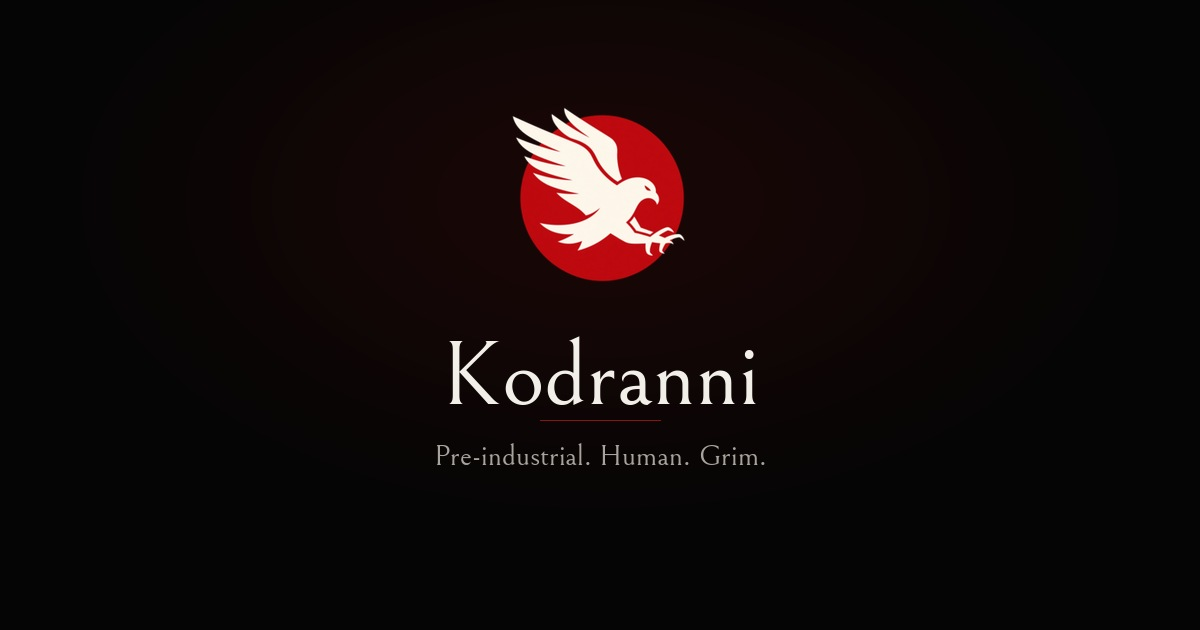
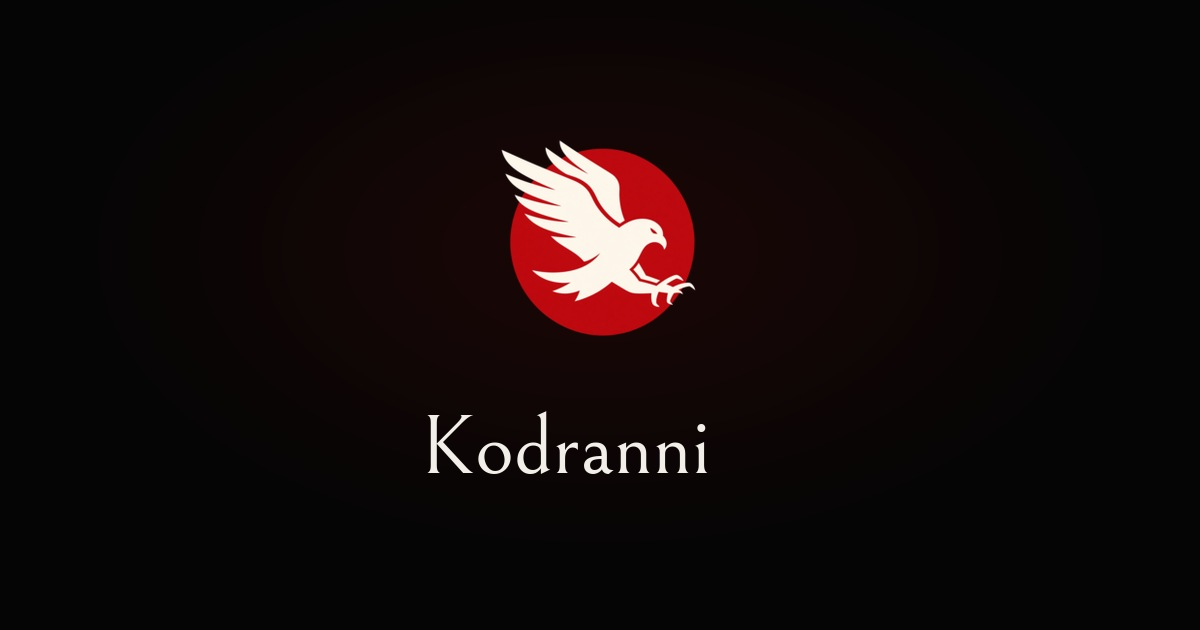
Close the Guidebook finish pass: tests, folio portal, OG, reading.
Build now runs domain tests and a small integrity check (no printed
{#ids}, no plan paths, Intro Echoes-before-Harm). Portal actions match
Guidebook prev/next plates. The link thumbnail is falcon plus wordmark
only. Bellefair reading: tighter tracking, brighter body, balanced
headings, roomier tables. Wording only where the high bar held: quote
shape, drop “online”, empty Hierarchy Tiers heading, plate order, and
the Exertion Practice exception. Campaign Setup is accepted; no
second-tier Glossary.

Changed region(s): [[0.3392, 0.181, 0.6475, 0.754]]

diff --git a/public-root/index.html b/public-root/index.html
@@ -14,11 +14,11 @@
 	<meta property="og:image:type" content="image/jpeg" />
 	<meta property="og:image:width" content="1200" />
 	<meta property="og:image:height" content="630" />
-	<meta property="og:image:alt" content="Kodranni — the white falcon on a blood disc. Pre-industrial. Human. Grim." />
+	<meta property="og:image:alt" content="The Kodranni falcon on a blood disc." />
 	<meta property="og:site_name" content="Kodranni" />
 	<meta name="twitter:card" content="summary_large_image" />
 	<meta name="twitter:image" content="https://tamasszentandrasi.github.io/Kodranni/Guidebook/og.jpg" />
-	<meta name="twitter:image:alt" content="Kodranni — the white falcon on a blood disc. Pre-industrial. Human. Grim." />
+	<meta name="twitter:image:alt" content="The Kodranni falcon on a blood disc." />
 	<link rel="icon" href="./Guidebook/favicon.ico" sizes="any" />
 	<link rel="icon" type="image/png" sizes="32x32" href="./Guidebook/favicon-32x32.png" />
 	<link rel="apple-touch-icon" sizes="180x180" href="./Guidebook/apple-touch-icon.png" />
@@ -45,7 +45,7 @@
 			-webkit-font-smoothing: antialiased;
 			text-rendering: geometricPrecision;
 			scrollbar-width: thin;
-			scrollbar-color: #4a0c0c #050505;
+			scrollbar-color: #5c5550 #080606;
 		}
 		body {
 			min-height: 100vh;
@@ -151,43 +151,73 @@
 			text-transform: uppercase;
 		}
 		.constraints li { margin: 0; }
-		.cards {
+		.folios {
 			display: grid;
 			grid-template-columns: 1fr;
-			gap: 0.75rem;
+			gap: 1.1rem;
 		}
 		@media (min-width: 36rem) {
-			.cards { grid-template-columns: 1fr 1fr; }
+			.folios { grid-template-columns: 1fr 1fr; }
 		}
-		a.card {
+		a.folio {
+			--tick: #6a6560;
 			display: block;
-			padding: 1.05rem 1.1rem;
-			border: 1px solid color-mix(in srgb, #8a1515 40%, #3a3030);
-			border-radius: 2px;
-			background: rgba(8, 6, 6, 0.72);
-			color: inherit;
+			padding: 0.95rem 0.9rem;
+			border: 1px solid #2e2a28;
+			border-radius: 0;
+			background:
+				linear-gradient(var(--tick), var(--tick)) 0 0 / 0.7rem 1px no-repeat,
+				linear-gradient(var(--tick), var(--tick)) 0 0 / 1px 0.7rem no-repeat,
+				linear-gradient(var(--tick), var(--tick)) 100% 0 / 0.7rem 1px no-repeat,
+				linear-gradient(var(--tick), var(--tick)) 100% 0 / 1px 0.7rem no-repeat,
+				linear-gradient(var(--tick), var(--tick)) 0 100% / 0.7rem 1px no-repeat,
+				linear-gradient(var(--tick), var(--tick)) 0 100% / 1px 0.7rem no-repeat,
+				linear-gradient(var(--tick), var(--tick)) 100% 100% / 0.7rem 1px no-repeat,
+				linear-gradient(var(--tick), var(--tick)) 100% 100% / 1px 0.7rem no-repeat,
+				linear-gradient(180deg, rgba(242, 239, 233, 0.05), transparent 42%),
+				rgba(12, 10, 9, 0.82);
+			color: #8a8580;
 			text-decoration: none;
-			box-shadow: inset 0 0 0 1px color-mix(in srgb, #f2efe9 5%, transparent);
-			transition: border-color 0.15s ease, background 0.15s ease;
+			text-align: start;
+			box-shadow:
+				inset 0 0 0 1px rgba(242, 239, 233, 0.04),
+				0 0 0 1px #141010;
+			transition: border-color 0.18s ease, color 0.18s ease;
 		}
-		a.card:hover,
-		a.card:focus-visible {
-			border-color: var(--blood);
-			background: rgba(18, 10, 10, 0.82);
+		a.folio:hover,
+		a.folio:focus-visible {
+			--tick: #c4bfb6;
+			border-color: #6a6560;
+			color: #b8b2aa;
+			background:
+				linear-gradient(var(--tick), var(--tick)) 0 0 / 0.7rem 1px no-repeat,
+				linear-gradient(var(--tick), var(--tick)) 0 0 / 1px 0.7rem no-repeat,
+				linear-gradient(var(--tick), var(--tick)) 100% 0 / 0.7rem 1px no-repeat,
+				linear-gradient(var(--tick), var(--tick)) 100% 0 / 1px 0.7rem no-repeat,
+				linear-gradient(var(--tick), var(--tick)) 0 100% / 0.7rem 1px no-repeat,
+				linear-gradient(var(--tick), var(--tick)) 0 100% / 1px 0.7rem no-repeat,
+				linear-gradient(var(--tick), var(--tick)) 100% 100% / 0.7rem 1px no-repeat,
+				linear-gradient(var(--tick), var(--tick)) 100% 100% / 1px 0.7rem no-repeat,
+				linear-gradient(180deg, rgba(242, 239, 233, 0.1), transparent 48%),
+				rgba(18, 16, 14, 0.88);
 			outline: none;
 		}
-		a.card strong {
+		.folio__label {
 			display: block;
-			margin-bottom: 0.3rem;
-			font-size: 1.3rem;
-			font-weight: 400;
-			letter-spacing: 0.04em;
+			font-size: 0.66rem;
+			letter-spacing: 0.14em;
+			text-transform: uppercase;
+		}
+		.folio__title {
+			display: block;
+			margin-top: 0.18rem;
+			font-size: 1.2rem;
+			letter-spacing: 0.05em;
 			color: var(--silver);
 		}
-		a.card span {
-			display: block;
-			color: #9a948c;
-			font-size: 0.95rem;
+		a.folio:hover .folio__title,
+		a.folio:focus-visible .folio__title {
+			color: #fff8f0;
 		}
 	</style>
 </head>
@@ -208,16 +238,16 @@
 				<li>Pre-industrial</li>
 				<li>Ordinary humans</li>
 			</ul>
-			<div class="cards">
-				<a class="card" href="./Guidebook/introduction/">
-					<strong>Guidebook</strong>
-					<span>Rules and procedures — start at the Introduction.</span>
+			<nav class="folios" aria-label="Kodranni">
+				<a class="folio" href="./Guidebook/introduction/">
+					<span class="folio__label">Start here</span>
+					<span class="folio__title">Guidebook</span>
 				</a>
-				<a class="card" href="https://github.com/tamasszentandrasi/Kodranni">
-					<strong>Source</strong>
-					<span>Repository, issues, plans, and history.</span>
+				<a class="folio" href="https://github.com/tamasszentandrasi/Kodranni">
+					<span class="folio__label">The source</span>
+					<span class="folio__title">Repository</span>
 				</a>
-			</div>
+			</nav>
 		</div>
 	</main>
 </body>

diff --git a/src/styles/tables.css b/src/styles/tables.css
@@ -12,8 +12,9 @@
   border: 1px solid color-mix(in srgb, var(--kod-blood) 42%, #3a3030);
   border-radius: 2px;
   background: #0c0a0a;
-  font-size: 0.98em;
-  line-height: 1.5;
+  font-size: 1.04em;
+  line-height: 1.58;
+  letter-spacing: 0.01em;
   box-shadow:
     inset 0 0 0 1px color-mix(in srgb, #f2efe9 5%, transparent),
     0 0 0 1px color-mix(in srgb, #000 50%, transparent);
@@ -52,9 +53,9 @@
 
 .sl-markdown-content td {
   border-bottom: 1px solid color-mix(in srgb, #f2efe9 8%, #2a2222) !important;
-  padding: 0.6rem 0.85rem !important;
+  padding: 0.68rem 0.9rem !important;
   vertical-align: top;
-  color: var(--kod-silver);
+  color: #d4cfc6;
 }
 
 .sl-markdown-content tbody tr:last-child td {

diff --git a/src/styles/type.css b/src/styles/type.css
@@ -8,8 +8,12 @@
 .sl-markdown-content {
   font-size: 1.22rem;
   line-height: 1.82;
-  letter-spacing: 0.02em;
-  color: var(--kod-silver);
+  letter-spacing: 0.012em;
+  color: #d4cfc6;
+  font-kerning: normal;
+  hyphens: none;
+  hanging-punctuation: first;
+  text-wrap: pretty;
 }
 
 .sl-markdown-content h1,
@@ -36,6 +40,7 @@ site-title,
   margin-top: 2em;
   border-bottom: 1px solid var(--sl-color-hairline);
   padding-bottom: 0.2em;
+  text-wrap: balance;
 }
 
 /* Core terms: bright register — Bellefair has no bold cut */
@@ -140,6 +145,7 @@ site-title {
   margin-top: 1.65em;
   letter-spacing: 0.04em;
   color: #ebe6de;
+  text-wrap: balance;
 }
 
 .sl-markdown-content h4 {

diff --git a/src/content/docs/introduction.md b/src/content/docs/introduction.md
@@ -3,7 +3,7 @@ title: Introduction
 description: Welcome to Kodranni — a pre-industrial grim human TTRPG system.
 ---
 
-> _*"It's Fiiiine" - a Storyteller describing something definitely not fine*_
+> *“It's Fiiiine” — a Storyteller describing something definitely not fine*
 
 ----------
 
@@ -11,21 +11,21 @@ description: Welcome to Kodranni — a pre-industrial grim human TTRPG system.
 <img src="/scenes/falconer.jpg" alt="" width="1168" height="784" loading="lazy" decoding="async" />
 </figure>
 
-> _*"The sunsets and sunrises of civilization are inevitably separated by intervals of isolated darkness.*_
+> *“The sunsets and sunrises of civilization are inevitably separated by intervals of isolated darkness.*
 >
-> _*The night that followed the Roman sunset was long and uncertain, and the turmoil it brought **consumed countless men**.*_
+> *The night that followed the Roman sunset was long and uncertain, and the turmoil it brought **consumed countless men**.*
 >
-> _*But mankind itself did not yield. With its gaze fixed on a distant future, it **persevered**.*_
+> *But mankind itself did not yield. With its gaze fixed on a distant future, it **persevered**.*
 >
-> _*Until the first rays of a **new dawn** at long last penetrated the horizon."*_
+> *Until the first rays of a **new dawn** at long last penetrated the horizon.”*
 >
-> _*A Study of History: Arnold J. Toynbee*_
+> — *Arnold J. Toynbee, A Study of History*
 
 ----------
 
 ## Welcome
 
-This Guide provides the concepts, procedures, and context needed to run and play **Kodranni** — an online tabletop role-playing game system.
+This Guide provides the concepts, procedures, and context needed to run and play **Kodranni** — a tabletop role-playing game system.
 
 Many concepts interconnect. The Guide is ordered so that each chapter builds on the previous ones; when something is introduced early and resolved later, links point you forward.
 
@@ -49,7 +49,8 @@ Whether the campaign is semi-historical or invented fantasy, if those three cond
 
 ## Core ideas
 
-> _"Whatever you do will be insignificant, but it is very important that you do it."_ — _Mahatma Gandhi_
+> *“Whatever you do will be insignificant, but it is very important that you do it.”*
+> — *Mahatma Gandhi*
 
 ----------
 
@@ -57,14 +58,15 @@ Whether the campaign is semi-historical or invented fantasy, if those three cond
 - **The Story of Life**: Characters are **mortal human beings**. Magic, supernatural strength, and similar elements are neither supported nor encouraged. Motivations, struggles, hopes, and dreams form the campaign. **Death** — whether of old age or in battle — **will come**.
 - **Advantage over modifiers**: Context is often innumerable. Rather than stack modifiers, the table judges who holds **[Advantage or Disadvantage](/marks-and-tiers/#advantage-and-disadvantage)** and shifts the **die tier** (**d6** · **d8** · **d12**) where it matters.
 
-> _"All we have to decide is what to do with the time that is given us."_ - _Gandalf the Grey_
+> *“All we have to decide is what to do with the time that is given us.”*
+> — *Gandalf the Grey*
 
 ----------
 
 - **Player Agency**: The system is permissive. Creativity, desperate attempts, and bold ideas are encouraged. The system will not stand in your way, but **how you handle risk is your responsibility**.
 - **Cooperative Struggle**: Campaigns centre on a **community** — a tribe, village, noble house — which the players must nurture. Actions, honourable or otherwise, shape that community’s future. **If the community is destroyed, the campaign ends.**
 - **Death and Continuity**: A player’s actions can outlive their character. Heroic deeds, wise counsel, and pivotal events may define the community. [**Echoes**](/echoes/) of those actions strengthen and guide future characters. [**Legacies**](/hierarchies/#legacies) and [**Foundation Myths**](/echoes/#foundation-myths) carry the accomplishments of earlier deeds.
-- **Automation Support**: Bookkeeping and an intricate roll stack are made playable by **automation**. See [Automation](/automation/) for the table-facing contract. That material will evolve as the product UI is defined.
+- **Automation Support**: Bookkeeping and an intricate roll stack are made playable by **automation**. See [Automation](/automation/) for the table-facing contract.
 
 ----------
 

diff --git a/docs/plans/starlight-guidebook.md b/docs/plans/starlight-guidebook.md
@@ -35,7 +35,7 @@ What is not true, and must not be dressed up:
 - **Plans were stale while we shipped.** This file still described packages 0–8 as the work, and a widget file-tree that was never created (`src/scripts/guidebook/widgets/*.ts`). `enhance.ts` is still one client file.
 - **CI builds the book and does not run domain tests.** The Practice stacking bug would have deployed.
 - **Introduction organisation table** listed Harm before Echoes; **fixed** (now matches sidebar, including Automation before Glossary).
-- **Campaign Setup** is the weakest chapter relative to Character Creation. Seeds and the nine-step method exist; the weather is thinner.
+- **Campaign Setup** is **accepted** (author, after a master worldbuilder reading). Ready.
 - **Bellefair** remains a locked taste risk. Mitigated (measure, contrast, no fake-bold). Not solved. Long Tide and Practice tables still tax the eye.
 - Visual claims in this session were not browser-verified here (no browser tools). Build + CSS inspection is not the same as using the book.
 
@@ -268,7 +268,7 @@ Guidebook scrollbar is silver (locked). Portal still has its own inline CSS (blo
 
 Not a new numbered programme unless one is opened. In priority order:
 
-1. **Process** — run `npm test` (or at least `test:domain`) in CI; never `{#slug}` in Markdown; verify glossary anchors after heading edits; browser-verify UI work.
-2. **Campaign Setup** — only if the author wants another cut. Do not invent worldbuilding.
-3. **Glossary second-tier** — Tide weight, skirmish size, Marks difference. Do not bloat it.
-4. Leave frozen: Automation chapter, Bellefair, closed ornament set, humour lines, accepted medallions, blood identity chrome, silver scrollbar.
+1. **Automation chapter** — frozen until the product is documentable. Last remaining *chapter*.
+2. Leave frozen: Bellefair, closed ornament set, humour lines, accepted medallions, blood identity chrome, silver scrollbar, Campaign Setup, no second-tier Glossary.
+
+`npm run build` now runs domain tests and `scripts/guidebook-integrity.mjs` (no `{#id}`, no plan paths, Intro Echoes-before-Harm) before Astro.

diff --git a/src/content/docs/inventory.md b/src/content/docs/inventory.md
@@ -3,6 +3,12 @@ title: Inventory
 description: Explicit possession, armour, food, water, and named items.
 ---
 
+----------
+
+<figure class="kod-breath not-content">
+<img src="/scenes/storeroom.jpg" alt="" width="1280" height="720" loading="lazy" decoding="async" />
+</figure>
+
 ## Inventory
 
 Inventory is kept light. Only what is **declared and tracked** exists.
@@ -10,12 +16,6 @@ Inventory is kept light. Only what is **declared and tracked** exists.
 **Possession is explicit.** If it has not been stated that a character is carrying an item, the character **does not have it**. No retroactive additions once a scene has begun.
 
 At [character creation](/character-creation/#after-the-weighing), only named items that already make sense for the concept are listed. No free supply packs. Everything else is filled in play.
-
-----------
-
-<figure class="kod-breath not-content">
-<img src="/scenes/storeroom.jpg" alt="" width="1280" height="720" loading="lazy" decoding="async" />
-</figure>
 
 ### Tracked elements
 

diff --git a/src/content/docs/exertion.md b/src/content/docs/exertion.md
@@ -63,7 +63,7 @@ Exertion can also be depleted by pure narrative events — lack of food or water
 
 ### Practice link
 
-[Practice](/skills/#improvement) from Marks on Skills accrues only when Exertion was spent — win or loss. An opposed loss also adds **+2**, which stacks with that Marks award. Effort is part of learning.
+[Practice](/skills/#improvement) from Marks on Skills accrues only when Exertion was spent — win or loss. An opposed loss also adds **+2**, which stacks with that Marks award. Unopposed struggle (more failures than Marks) still awards **+2** without Exertion. Effort is part of learning.
 
 Related: [Human Potential](/human-potential/), [Dice Mechanics](/dice-mechanics/), [Automation](/automation/).
 

diff --git a/src/content/docs/hierarchies.md b/src/content/docs/hierarchies.md
@@ -24,6 +24,8 @@ During [Campaign Setup](/campaign-setup/), leave axes empty of names; standing i
 
 ### Tiers
 
+Each axis uses the same four rungs, top to bottom: **Honoured**, **Trusted**, **Acknowledged**, **Outcast**. The **Ruler** sits above them, not on them.
+
 ### The shape of the Diagram
 
 Read the diagram top-down: one crown, then parallel ladders. Each column is a separate Hierarchy. Each ladder uses the **same four tiers** (top of column = Honoured, bottom = Outcast).

diff --git a/src/content/docs/tide.md b/src/content/docs/tide.md
@@ -6,11 +6,11 @@ description: Shared pressure for contests larger than a clean 1v1 — setup, Mar
 > *“In battle, momentum means riding on the force of the tide of events.”*
 > — *Sun Tzu*
 
+----------
+
 <figure class="kod-breath not-content">
 <img src="/scenes/hattin.jpg" alt="" width="1280" height="720" loading="lazy" decoding="async" />
 </figure>
-
-----------
 
 ## Situational Dice Resolution
 

diff --git a/src/content/docs/skills.md b/src/content/docs/skills.md
@@ -3,8 +3,8 @@ title: Skills
 description: Skills organised under six Archetypes, with Practice and improvement rules.
 ---
 
-> _*“People pretend not to like grapes when the vines are too high for them to reach.”*_  
-> _Marguerite de Navarre_
+> *“People pretend not to like grapes when the vines are too high for them to reach.”*
+> — *Marguerite de Navarre*
 
 ----------
 

diff --git a/src/content/docs/harm.md b/src/content/docs/harm.md
@@ -5,7 +5,7 @@ description: The nine Harm tracks, Dying, recovery, and protection ratios.
 
 > _*Deyr fé, deyja frændur, deyr sjálfur ið sama.*_  
 > _*Cattle die, kinsmen die, you yourself will also die.*_  
-> — Hávamál
+> — *Hávamál*
 
 ----------
 
